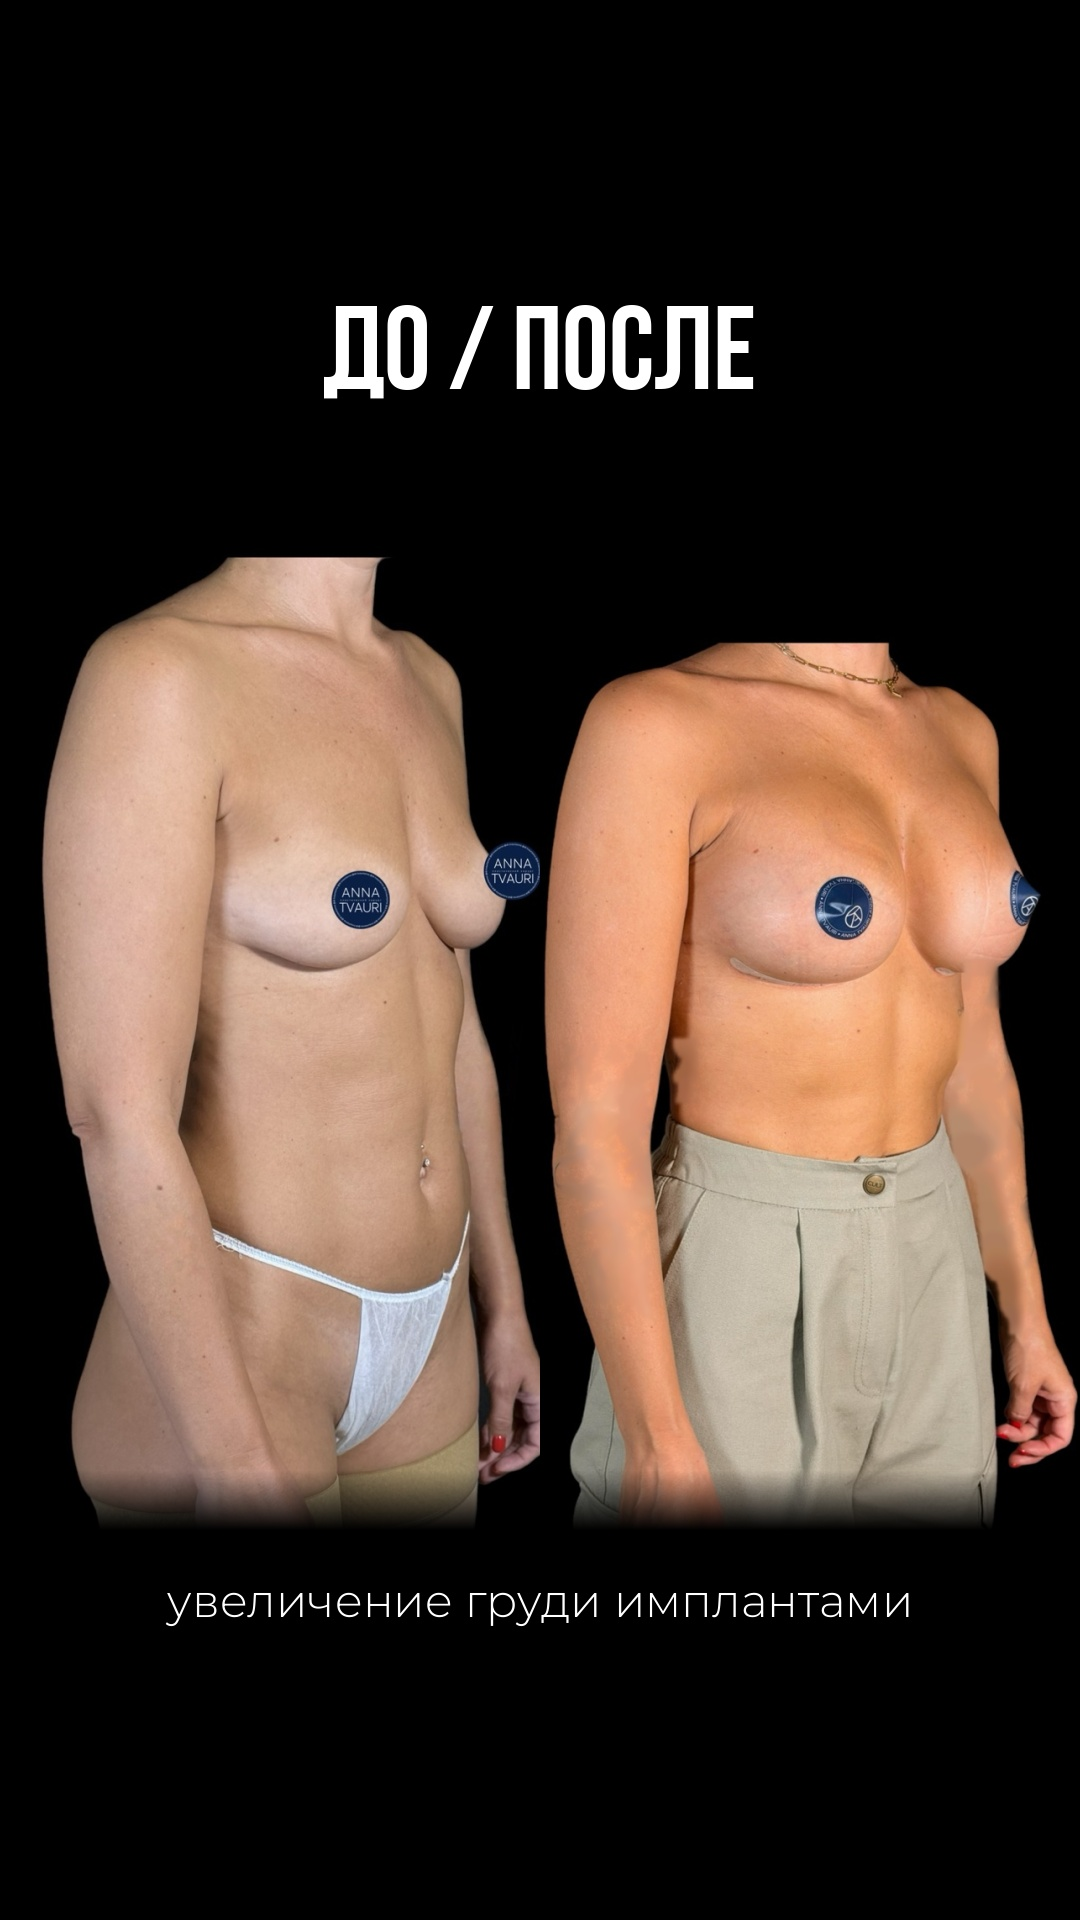
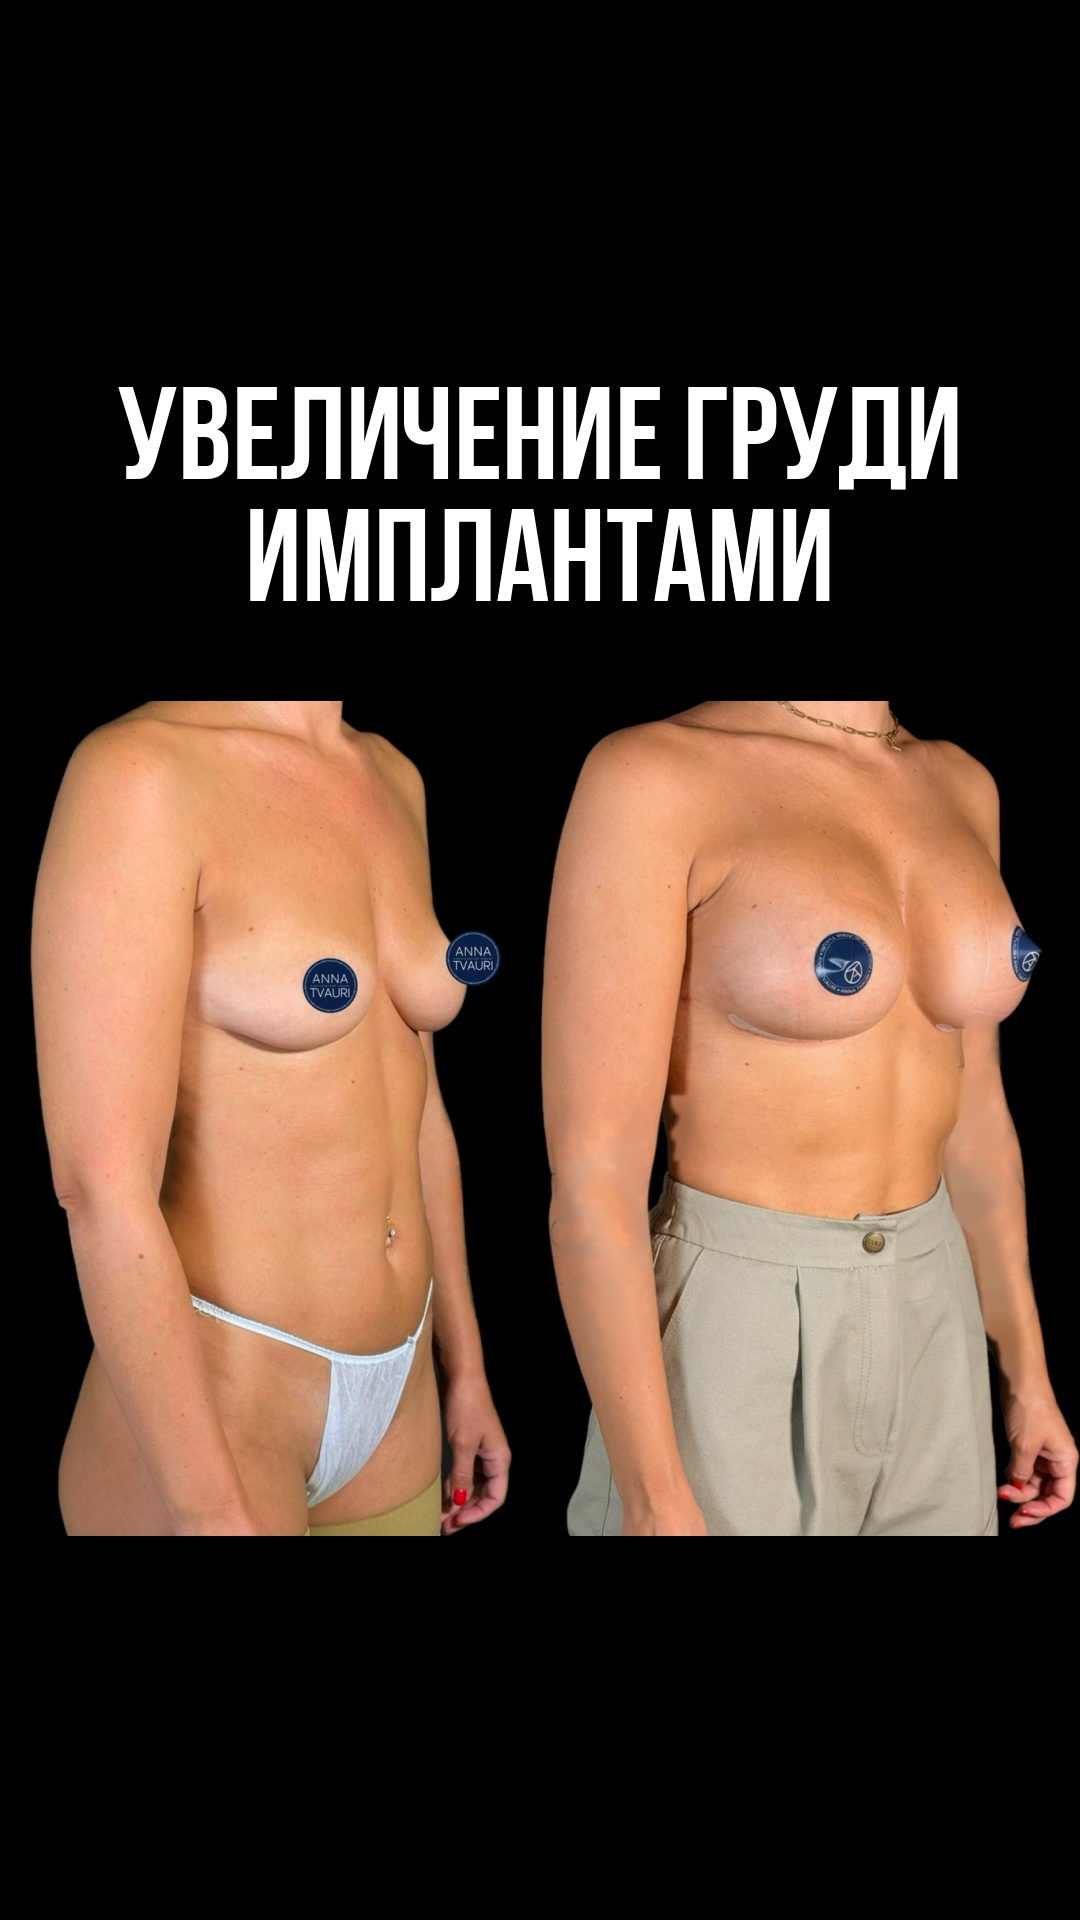
Reels cover: straight neck-to-fingertips crop, before matched to after, title on top
Claude-Session: https://claude.ai/code/session_01DoBoRz2HUe4yvMBz6dWv4L

diff --git a/tools/cover_breast_implants.py b/tools/cover_breast_implants.py
@@ -1,4 +1,5 @@
-"""Reels cover 1080x1920: before | after side by side on black, Bebas title on top, thin Montserrat caption below.
+"""Reels cover 1080x1920: before | after side by side on black, cut straight from the neck to the fingertips,
+Bebas title on top; the skin of the before photo is matched to the after one.
 Tattoos are removed (dark line work inside hand-picked boxes -> inpainted with the surrounding skin).
 Everything sits inside the central 3:4 zone (y 240..1680) so the grid crop in the profile shows it all.
 
@@ -14,23 +15,24 @@ ROOT = os.path.dirname(os.path.dirname(os.path.abspath(__file__)))
 BEBAS = os.path.join(ROOT, "skills/montage-svg-typography/Шрифты/Коллекция шрифтов/BebasNeueCyrillic.ttf")
 MONT = os.path.join(ROOT, "fonts/Montserrat-VariableFont_wght.ttf")
 W, H = 1080, 1920
-TITLE, CAPTION = "ДО / ПОСЛЕ", "увеличение груди имплантами"
+TITLE = ["УВЕЛИЧЕНИЕ ГРУДИ", "ИМПЛАНТАМИ"]
 
-# per photo: tattoo areas (polygons in source pixels), near-nipple point, crop x-range
+# per photo: tattoo areas (polygons in source pixels), scale, shoulder line y (column x=500), body centre x
 SPEC = {
     "before": dict(tattoos=[[(602, 1202), (615, 1202), (615, 1230), (602, 1230)],              # tiny marks in the side crease
-                            [(601, 1250), (613, 1250), (613, 1270), (601, 1270)]], small=True, nip=(798, 1045), x=(366, 1016)),
+                            [(601, 1250), (613, 1250), (613, 1270), (601, 1270)]], s=0.79, shoulder=722, cx=723),
     "after": dict(tattoos=[
         [(430, 1238), (530, 1238), (532, 1562), (468, 1562), (428, 1420), (424, 1320)],              # left forearm
         [(553, 1232), (592, 1232), (592, 1305), (553, 1305)],                                         # ribs
         [(908, 1138), (942, 1138), (952, 1200), (966, 1300), (975, 1400), (986, 1500), (992, 1580),
          (940, 1580), (930, 1500), (924, 1400), (896, 1372), (889, 1322), (899, 1260), (906, 1200)],   # right forearm
-    ],
-                  nip=(760, 1065), x=(398, 1048)),
+    ], s=0.848, shoulder=799, cx=724),
 }
-S = 0.84             # both photos are shot at the same distance -> one scale
-NIP_Y = 900          # nipple line on the cover
-TOP, BOT = 470, 1530  # photo band
+# one shoulder line for both; s equalises shoulder->fingertips (before 722->1733, after 799->1740 px)
+SHOULDER_Y = 730
+TOP = SHOULDER_Y - 29          # straight cut at the neck (the after photo starts at its y 759)
+BOT = SHOULDER_Y + 806         # straight cut just under the fingertips
+TITLE_Y = 380
 
 
 def remove_tattoos(img, polys, small=False):
@@ -55,39 +57,57 @@ def remove_tattoos(img, polys, small=False):
     return out, mask
 
 
-def panel(name):
-    sp = SPEC[name]
-    img = cv2.imread(BEFORE if name == "before" else AFTER)
-    img, mask = remove_tattoos(img, sp["tattoos"], sp.get("small", False))
-    x0, x1 = sp["x"]
-    crop = img[:, x0:x1]
-    crop = cv2.resize(crop, None, fx=S, fy=S, interpolation=cv2.INTER_AREA)
-    ty = int(round(NIP_Y - sp["nip"][1] * S))
-    p = np.zeros((H, crop.shape[1], 3), np.uint8)
-    a, b = max(ty, 0), min(ty + crop.shape[0], H)
-    p[a:b] = crop[a - ty:b - ty]
-    return p, mask
+def skin_mask(img):
+    lab = cv2.cvtColor(img, cv2.COLOR_BGR2LAB)
+    return ((lab[..., 1] > 136) & (lab[..., 0] > 70)).astype(np.uint8)
+
+
+def match_skin(img, ref):
+    """bring the skin of img to the tone of ref: LAB mean/std transfer, applied on skin only (stickers, briefs stay)"""
+    li = cv2.cvtColor(img, cv2.COLOR_BGR2LAB).astype(np.float32); lr = cv2.cvtColor(ref, cv2.COLOR_BGR2LAB).astype(np.float32)
+    mi, mr = skin_mask(img) > 0, skin_mask(ref) > 0
+    out = li.copy()
+    for c in range(3):
+        a, b = li[..., c][mi], lr[..., c][mr]
+        out[..., c] = (li[..., c] - a.mean()) * (b.std() / a.std()) + b.mean()
+    out = cv2.cvtColor(out.clip(0, 255).astype(np.uint8), cv2.COLOR_LAB2BGR)
+    # the whole body, except the white briefs and the navy stickers
+    L, A, B = li[..., 0], li[..., 1], li[..., 2]
+    keep = (L > 35) & ~((L > 175) & (np.abs(A - 128) < 6) & (np.abs(B - 128) < 10)) & ~(B < 118)
+    keep = cv2.morphologyEx(keep.astype(np.uint8), cv2.MORPH_OPEN, np.ones((3, 3), np.uint8))
+    soft = cv2.GaussianBlur(keep.astype(np.float32), (0, 0), 2)[..., None]
+    return (out * soft + img * (1 - soft)).astype(np.uint8)
+
+
+def panel(name, img):
+    """scale, then put the shoulder line on SHOULDER_Y; centre the body in a W/2 column; straight cut top/bottom"""
+    sp = SPEC[name]; s = sp["s"]
+    img = cv2.resize(img, None, fx=s, fy=s, interpolation=cv2.INTER_AREA)
+    ty = int(round(SHOULDER_Y - sp["shoulder"] * s))
+    cx = int(round(sp["cx"] * s)); w = W // 2
+    p = np.zeros((H, w, 3), np.uint8)
+    for y in range(TOP, BOT):
+        sy = y - ty
+        if 0 <= sy < img.shape[0]:
+            x0 = cx - w // 2
+            p[y] = img[sy, x0:x0 + w]
+    return p
 
 
 def main():
+    before, mb = remove_tattoos(cv2.imread(BEFORE), SPEC["before"]["tattoos"], True)
+    after, ma = remove_tattoos(cv2.imread(AFTER), SPEC["after"]["tattoos"])
+    before = match_skin(before, after)
     canvas = np.zeros((H, W, 3), np.uint8)
-    pb, mb = panel("before"); pa, ma = panel("after")
-    wb = W // 2
-    canvas[:, :wb] = pb[:, (pb.shape[1] - wb) // 2:(pb.shape[1] - wb) // 2 + wb]
-    canvas[:, wb:] = pa[:, (pa.shape[1] - (W - wb)) // 2:(pa.shape[1] - (W - wb)) // 2 + (W - wb)]
-    # photo band: hard top/bottom with a short fade to black
-    y = np.arange(H, dtype=np.float32)[:, None, None]
-    k = np.clip((y - TOP) / 40, 0, 1) * np.clip((BOT - y) / 60, 0, 1)
-    canvas = (canvas * k).astype(np.uint8)
+    canvas[:, :W // 2] = panel("before", before)
+    canvas[:, W // 2:] = panel("after", after)
 
     pil = Image.fromarray(canvas[..., ::-1])
     d = ImageDraw.Draw(pil)
-    ft = ImageFont.truetype(BEBAS, 118)
-    tw = d.textlength(TITLE, font=ft)
-    d.text(((W - tw) / 2, 300), TITLE, font=ft, fill=(255, 255, 255))
-    fc = ImageFont.truetype(MONT, 46); fc.set_variation_by_axes([300])
-    cw = d.textlength(CAPTION, font=fc)
-    d.text(((W - cw) / 2, 1572), CAPTION, font=fc, fill=(255, 255, 255))
+    ft = ImageFont.truetype(BEBAS, 132)
+    for i, line in enumerate(TITLE):
+        tw = d.textlength(line, font=ft)
+        d.text(((W - tw) / 2, TITLE_Y + i * 122), line, font=ft, fill=(255, 255, 255))
     pil.save(OUT, quality=95)
     if DEBUG:
         cv2.imwrite(DEBUG, np.hstack([cv2.resize(mb * 255, (725, 1288)), cv2.resize(ma * 255, (725, 1288))]))

diff --git a/cover_breast_implants/README.md b/cover_breast_implants/README.md
@@ -1,8 +1,9 @@
 # Обложка Reels: увеличение груди имплантами
 
 `oblozhka.jpg` — 1080×1920, в стиле обложки «Комплексная операция»: чёрный фон, слева ДО, справа ПОСЛЕ,
-сверху заголовок Bebas «ДО / ПОСЛЕ», снизу подпись Montserrat Light «увеличение груди имплантами».
+сверху заголовок Bebas «УВЕЛИЧЕНИЕ ГРУДИ ИМПЛАНТАМИ».
+Оба фото в одном масштабе, на одной линии плеч и обрезаны ровно: сверху по шее, снизу по кончикам пальцев.
+Кожа на ДО подогнана по цвету под ПОСЛЕ. Татуировки убраны (предплечья и бок на ПОСЛЕ, точки на боку на ДО).
 Всё важное — в центральной зоне 3:4, чтобы в сетке профиля ничего не обрезалось.
-Татуировки убраны (предплечья и бок на ПОСЛЕ, точки на боку на ДО).
 
 Рендер: `python3 tools/cover_breast_implants.py ДО.jpg ПОСЛЕ.jpg cover_breast_implants/oblozhka.jpg`
